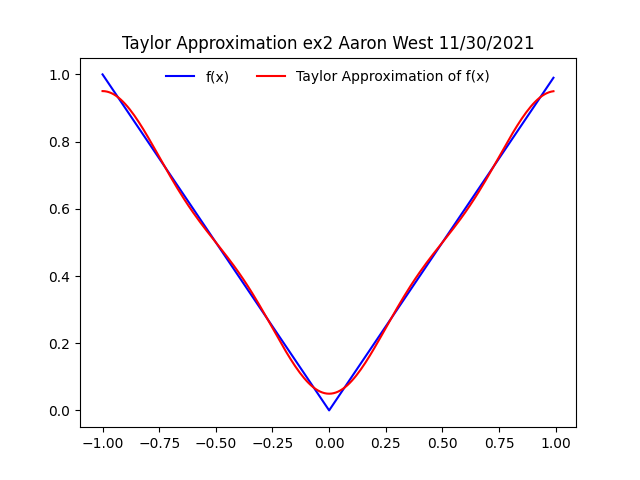
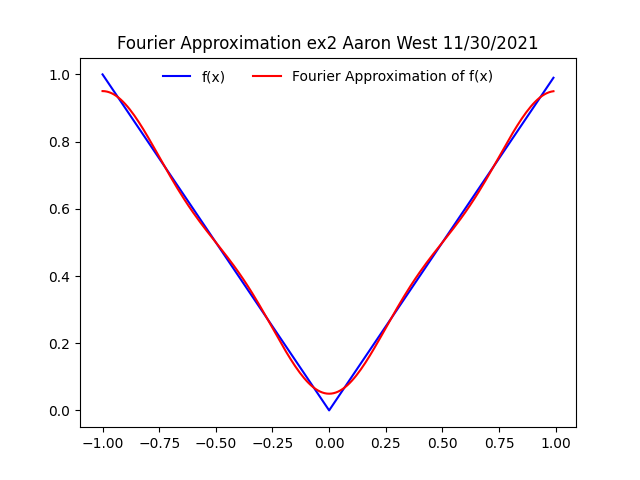
modified:   ex2fourier.py 	modified:   ex2results.png

Changed region(s): [[0.1875, 0.0625, 0.8438, 0.1875]]

diff --git a/ex2fourier.py b/ex2fourier.py
@@ -26,8 +26,8 @@ for i in m-1:
     #note bn = 0 for odd function
 estfx = ao + sum1
 plt.plot(x,onepiece, 'b' , label="f(x)")
-plt.plot(x, estfx, 'r', label="Taylor Approximation of f(x)")
-plt.title(r'Taylor Approximation ex2 Aaron West 11/30/2021')
+plt.plot(x, estfx, 'r', label="Fourier Approximation of f(x)")
+plt.title(r'Fourier Approximation ex2 Aaron West 11/30/2021')
 ax = plt.gca()
 
 ax.legend(frameon=False, loc='upper center', ncol=2)
